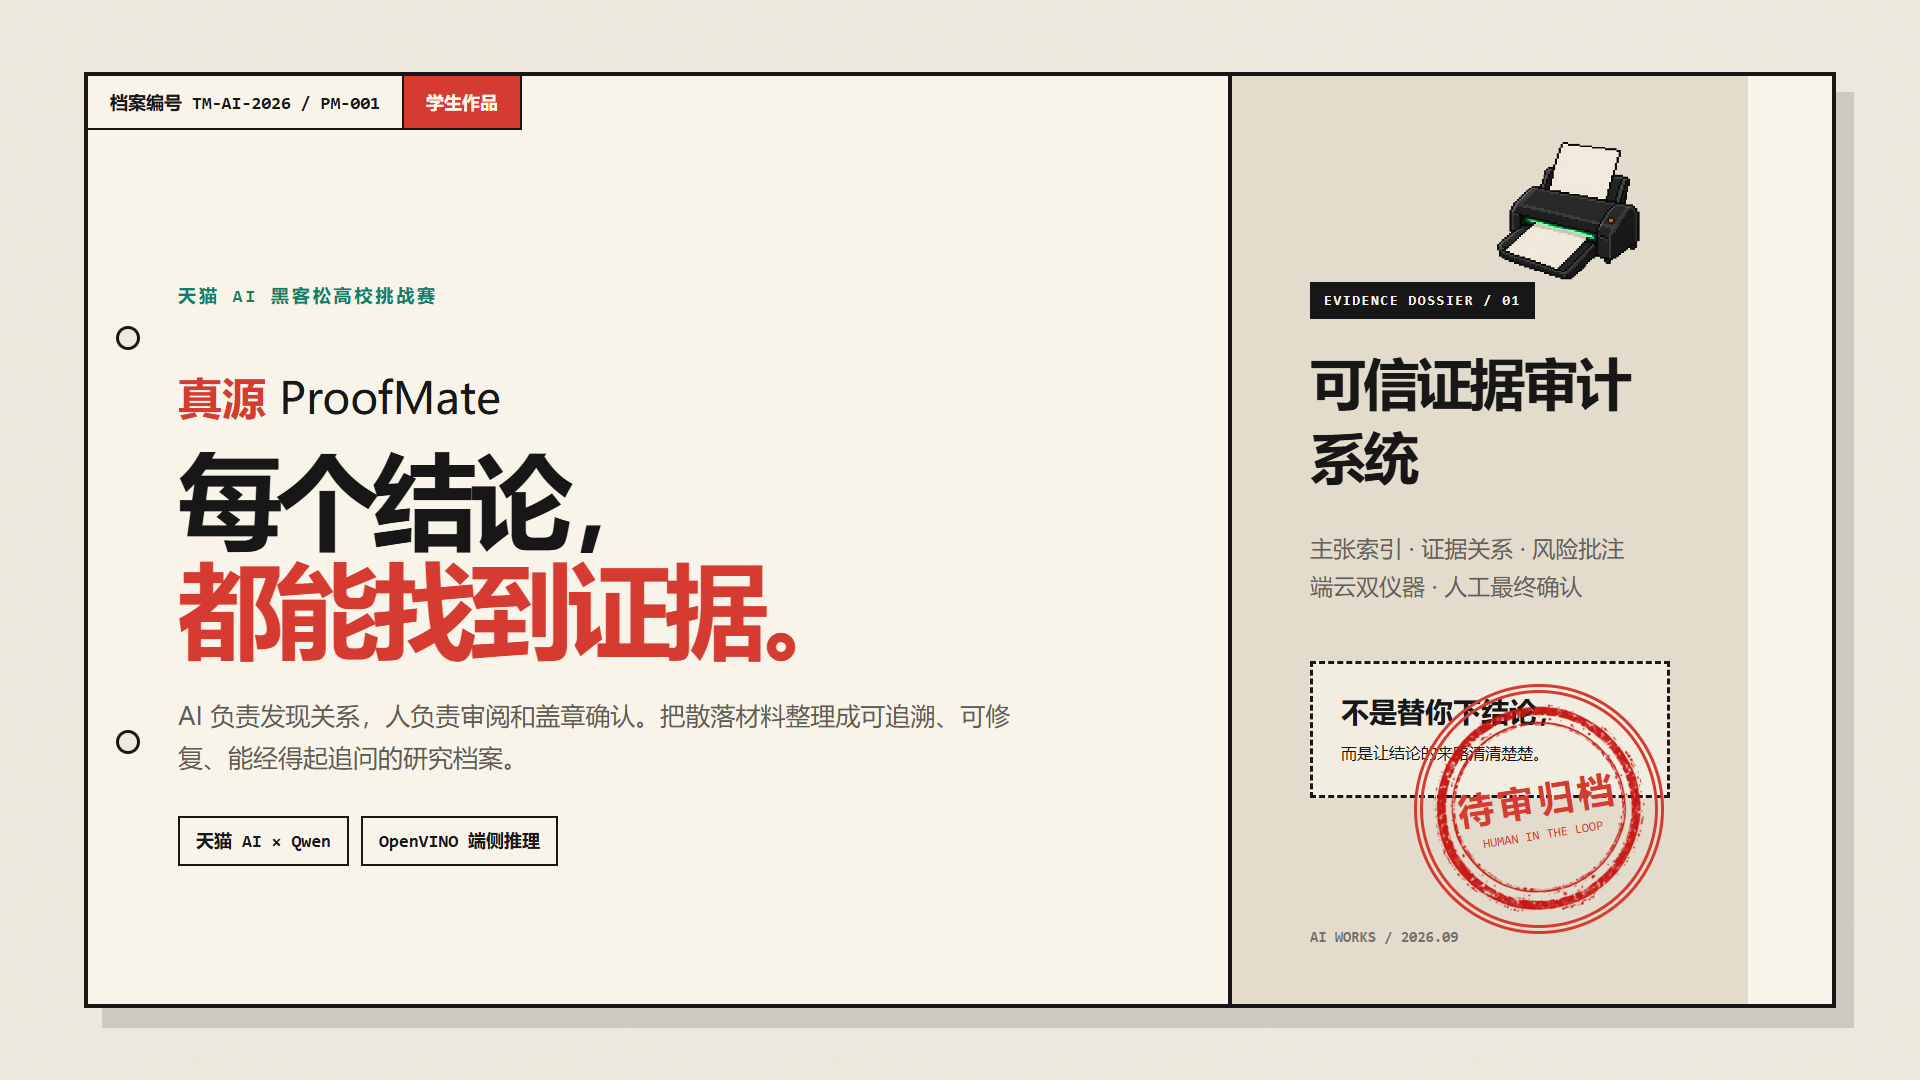
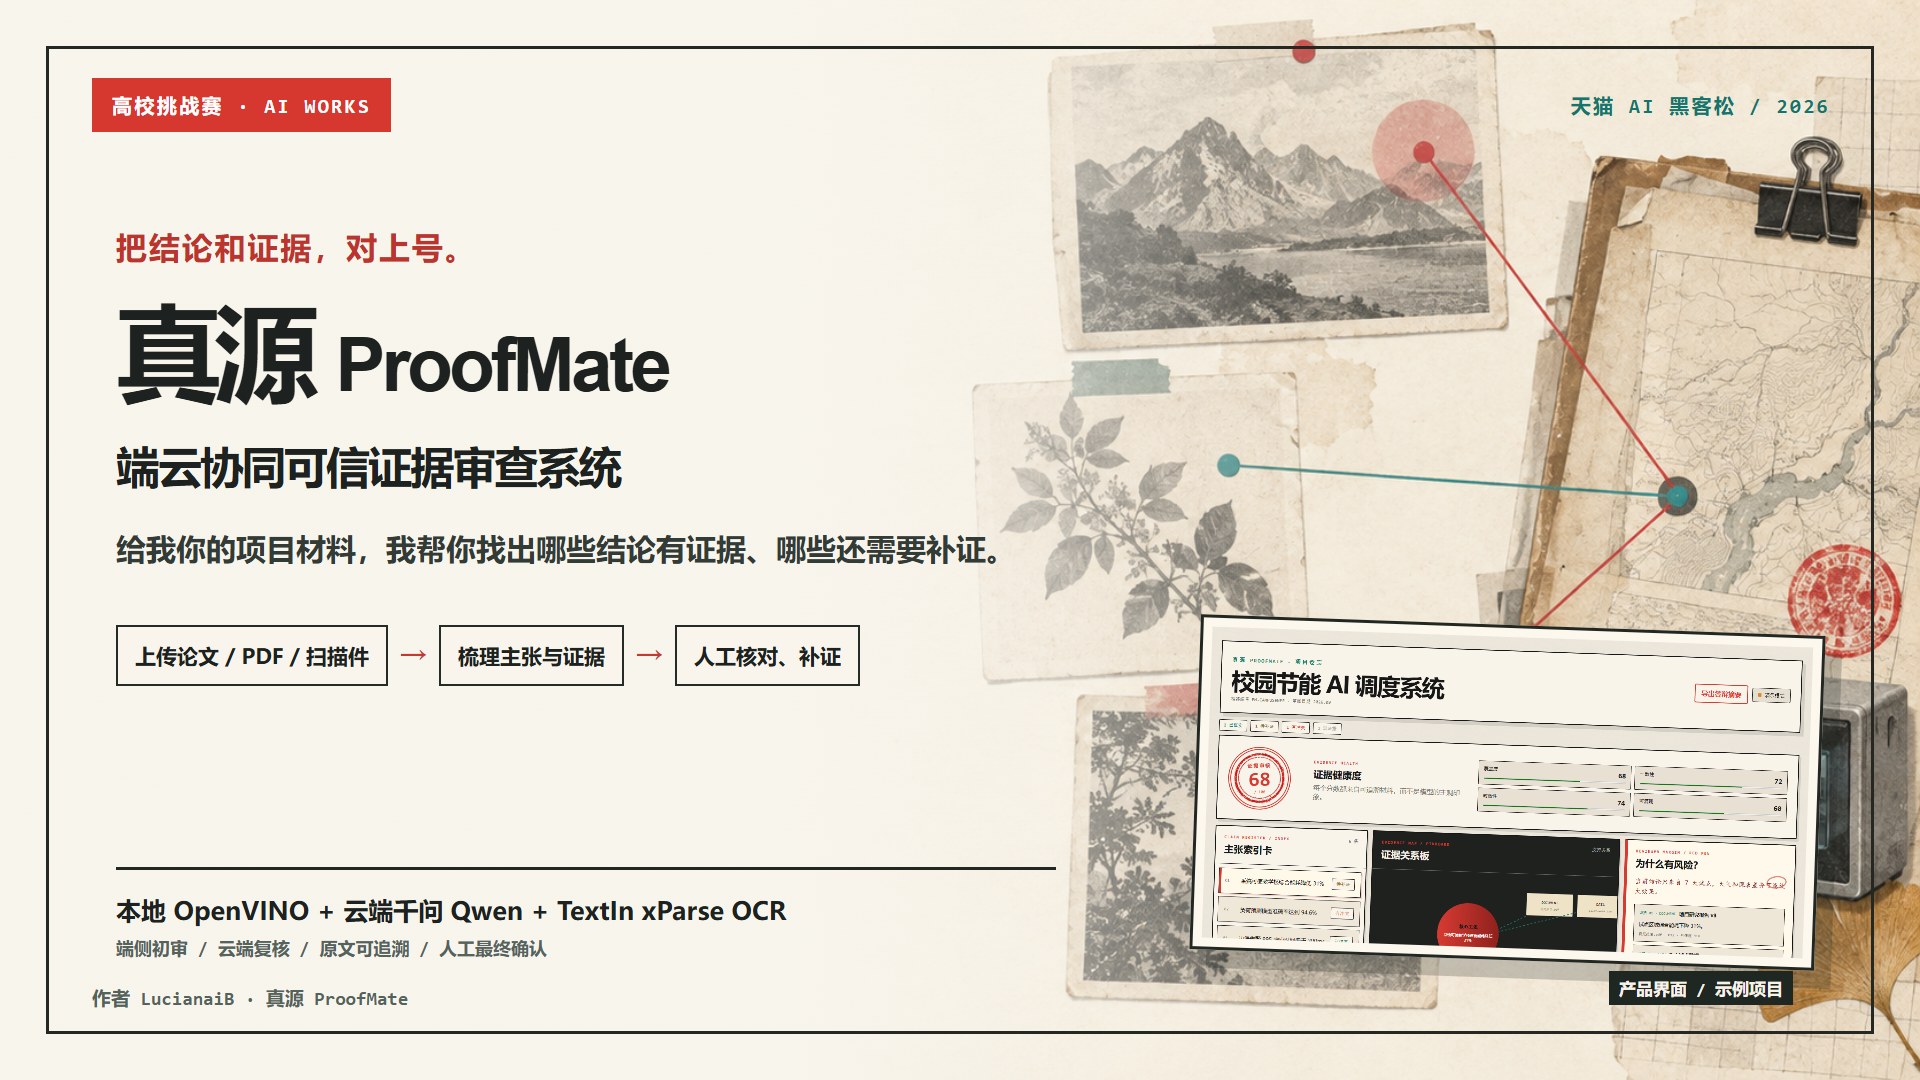
Redesign competition cover with clear product explanation

diff --git a/submission/cover-v2.html b/submission/cover-v2.html
@@ -1,0 +1,10 @@
+<!doctype html>
+<html lang="zh-CN">
+<head>
+<meta charset="utf-8" />
+<style>
+*{box-sizing:border-box}html,body{width:1920px;height:1080px;margin:0;overflow:hidden}body{font-family:"Microsoft YaHei","PingFang SC",sans-serif;color:#1d211f;background:#f6f1e7}.cover{position:relative;width:100%;height:100%;background:#f6f1e7 url('assets/cover-collage-v2.png') center/cover no-repeat}.cover:before{content:"";position:absolute;inset:0;background:linear-gradient(90deg,rgba(248,245,237,.96) 0%,rgba(248,245,237,.96) 41%,rgba(248,245,237,.18) 67%,rgba(248,245,237,0) 100%)}.frame{position:absolute;inset:46px;border:3px solid #242722;pointer-events:none}.top{position:absolute;left:92px;right:90px;top:78px;display:flex;align-items:center;justify-content:space-between;font:700 20px Consolas,monospace;letter-spacing:.12em}.top .label{padding:14px 20px;background:#d6382f;color:#fff}.top .event{color:#15746b}.main{position:absolute;left:116px;top:226px;width:930px}.kicker{font-size:31px;font-weight:800;color:#bb342d;letter-spacing:.06em}.name{margin:26px 0 0;font-size:105px;line-height:1.08;letter-spacing:-.07em;font-weight:900}.name span{font:600 75px/1.1 Arial,sans-serif;letter-spacing:-.05em}.subtitle{margin:30px 0 0;font-size:44px;line-height:1.3;font-weight:850;letter-spacing:-.045em}.plain{margin:32px 0 0;width:900px;font-size:30px;line-height:1.5;color:#333b37;font-weight:550}.flow{display:flex;gap:12px;margin-top:54px}.flow span{padding:15px 17px;border:2px solid #252b27;background:rgba(249,245,236,.9);font-size:21px;font-weight:700}.flow b{align-self:center;color:#c73930;font-size:27px}.tech{position:absolute;left:116px;bottom:120px;width:940px;padding-top:22px;border-top:3px solid #232722;font-size:25px;line-height:1.5;font-weight:700}.tech small{display:block;margin-top:7px;font:700 18px Consolas,monospace;color:#54635c}.preview{position:absolute;right:100px;bottom:120px;width:625px;height:335px;padding:9px;background:#fcf8ee;border:3px solid #232722;box-shadow:17px 18px 0 rgba(27,35,30,.22);transform:rotate(2deg)}.preview img{display:block;width:100%;height:100%;object-fit:cover;object-position:top}.preview-label{position:absolute;right:127px;bottom:75px;padding:6px 10px;color:#f8f3e8;background:#1f2722;font:700 17px Consolas,monospace}.foot{position:absolute;left:92px;bottom:70px;color:#53635a;font:700 19px Consolas,monospace}
+</style>
+</head>
+<body><main class="cover"><div class="frame"></div><header class="top"><span class="label">高校挑战赛 · AI WORKS</span><span class="event">天猫 AI 黑客松 / 2026</span></header><section class="main"><div class="kicker">把结论和证据，对上号。</div><h1 class="name">真源 <span>ProofMate</span></h1><p class="subtitle">端云协同可信证据审查系统</p><p class="plain">给我你的项目材料，我帮你找出哪些结论有证据、哪些还需要补证。</p><div class="flow"><span>上传论文 / PDF / 扫描件</span><b>→</b><span>梳理主张与证据</span><b>→</b><span>人工核对、补证</span></div></section><div class="tech">本地 OpenVINO + 云端千问 Qwen + TextIn xParse OCR<small>端侧初审 / 云端复核 / 原文可追溯 / 人工最终确认</small></div><div class="preview"><img src="作品展示/界面截图-证据驾驶舱.png" alt="示例项目的产品界面预览"></div><div class="preview-label">产品界面 / 示例项目</div><div class="foot">作者 LucianaiB · 真源 ProofMate</div></main></body>
+</html>
